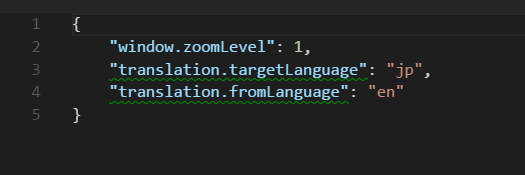
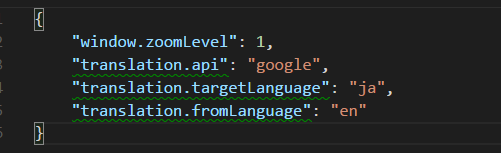
update to 0.0.5

diff --git a/out/src/extension.js b/out/src/extension.js
@@ -4,20 +4,42 @@ Object.defineProperty(exports, "__esModule", { value: true });
 // Import the module and reference it with the alias vscode in your code below
 const vscode_1 = require("vscode");
 const WebRequest = require("web-request");
-// import { DOMParser } from 'xmldom';
 // this method is called when your extension is activated
 // your extension is activated the very first time the command is executed
-let _flag = false;
-let _rs = '';
-// var parser = new DOMParser();
+let _flag = false, _rs = '', google2baidu = {
+    en: 'en',
+    th: 'th',
+    ru: 'ru',
+    pt: 'pt',
+    el: 'el',
+    nl: 'nl',
+    pl: 'pl',
+    bg: 'bul',
+    et: 'est',
+    da: 'dan',
+    fi: 'fin',
+    cs: 'cs',
+    ro: 'rom',
+    sl: 'slo',
+    sv: 'swe',
+    hu: 'hu',
+    de: 'de',
+    it: 'it',
+    zh: 'zh',
+    'zh-CN': 'zh',
+    'zh-TW': 'cht',
+    'zh-HK': 'yue',
+    ja: 'jp',
+    ko: 'kor',
+    es: 'spa',
+    fr: 'fra',
+    ar: 'ara'
+};
 function activate(context) {
     // Use the console to output diagnostic information (console.log) and errors (console.error)
     // This line of code will only be executed once when your extension is activated
-    let translate = new Translate();
-    context.subscriptions.push(translate);
-    var disposable = vscode_1.commands.registerCommand('extension.translateon', () => {
-        // The code you place here will be executed every time your command is executed
-        // Display a message box to the user
+    context.subscriptions.push(new Translate());
+    context.subscriptions.push(vscode_1.commands.registerCommand('extension.translateon', () => {
         if (!_flag) {
             vscode_1.window.showInformationMessage('Translate on!');
             _flag = true;
@@ -26,14 +48,12 @@ function activate(context) {
             vscode_1.window.showInformationMessage('Translate off!');
             _flag = false;
         }
-    });
-    context.subscriptions.push(disposable);
+    }));
     context.subscriptions.push(vscode_1.commands.registerCommand('extension.translateReplace', () => {
         if (!_flag) {
             return;
         }
-        var editor = vscode_1.window.activeTextEditor;
-        var selection = editor.selection;
+        var editor = vscode_1.window.activeTextEditor, selection = editor.selection;
         editor.edit(edit => edit.replace(selection, _rs));
     }));
 }
@@ -54,36 +74,36 @@ class Translate {
         this._statusBarItem.show();
     }
     updateTranslate() {
-        let cfg = vscode_1.workspace.getConfiguration();
-        var _proxy = String(cfg.get("http.proxy"));
-        var _api = String(cfg.get("translation.api"));
-        var _targetLanguage = String(cfg.get("translation.targetLanguage"));
-        var _fromLanguage = String(cfg.get("translation.fromLanguage"));
+        var cfg = vscode_1.workspace.getConfiguration(), _proxy = String(cfg.get("http.proxy")), _api = String(cfg.get("translation.api")), _targetLanguage = String(cfg.get("translation.targetLanguage")), _fromLanguage = String(cfg.get("translation.fromLanguage"));
         let editor = vscode_1.window.activeTextEditor;
         if (!_flag || !editor) {
             this._statusBarItem.hide();
             return;
         }
-        let doc = editor.document;
-        let str = doc.getText(editor.selection);
-        this.dotranslate(encodeURIComponent(str), _proxy, _api, _targetLanguage, _fromLanguage);
+        let doc = editor.document, str = doc.getText(editor.selection);
+        setTimeout(() => {
+            this.dotranslate(encodeURIComponent(str), _proxy, _api, _targetLanguage, _fromLanguage);
+        }, 1000);
     }
     dotranslate(str, _proxy, _api, _targetLanguage, _fromLanguage) {
         var statusBarItem = this._statusBarItem;
         if (str.trim() == '')
             return;
-        var translateStr = this.baiduTranslate(str, _targetLanguage, _fromLanguage);
+        var translateStr = _api == 'baidu' ? this.baiduTranslate(str, google2baidu[_targetLanguage], google2baidu[_fromLanguage]) : this.googleTranslate(str, _targetLanguage, _fromLanguage);
         WebRequest.get(translateStr, { "proxy": _proxy }).then(function (TResult) {
-            var rs = '';
-            // if (_api == 'baidu') {
-            var res = JSON.parse(TResult.content.toString());
-            if (res.error)
-                return;
-            rs = res.trans_result.data[0].dst;
-            // } else {
-            //     var domStr = TResult.content.toString()
-            //          ,dom = parser.parseFromString(domStr.substring(domStr.indexOf('<body dir'),domStr.lastIndexOf('</body>')+7));
-            // }
+            var rs = '', res = JSON.parse(TResult.content.toString());
+            if (_api == 'baidu') {
+                if (res.error)
+                    return;
+                rs = res.trans_result.data[0].dst;
+            }
+            else {
+                var result = [];
+                res.sentences.forEach(function (v) {
+                    result.push(v.trans);
+                });
+                rs = result.join(',');
+            }
             statusBarItem.text = _rs = rs;
             statusBarItem.show();
         });
@@ -92,7 +112,7 @@ class Translate {
         return 'http://fanyi.baidu.com/v2transapi?query=' + str + (_fromLanguage ? '&from=' + _fromLanguage : '') + (_targetLanguage ? '&to=' + _targetLanguage : '');
     }
     googleTranslate(str, _targetLanguage, _fromLanguage) {
-        return 'https://translate.google.cn/#' + (_fromLanguage ? _fromLanguage : 'auto') + '/' + (_targetLanguage ? _targetLanguage : 'zh-CN') + '/' + str;
+        return 'https://translate.google.cn/translate_a/single?client=gtx&sl=' + (_fromLanguage || 'auto') + '&tl=' + (_targetLanguage || 'auto') + '&hl=zh-CN&dt=t&dt=bd&ie=UTF-8&oe=UTF-8&dj=1&source=icon&q=' + str;
     }
     dispose() {
         this._statusBarItem.dispose();

diff --git a/src/extension.ts b/src/extension.ts
@@ -3,24 +3,47 @@
 // Import the module and reference it with the alias vscode in your code below
 import { window, workspace, commands, Disposable, ExtensionContext, StatusBarAlignment, StatusBarItem, TextDocument } from 'vscode';
 import * as WebRequest from 'web-request';
-// import { DOMParser } from 'xmldom';
 // this method is called when your extension is activated
 // your extension is activated the very first time the command is executed
-let _flag = false;
-let _rs = '';
-// var parser = new DOMParser();
+let _flag = false
+    , _rs = ''
+    , google2baidu = {
+        en: 'en',
+        th: 'th',
+        ru: 'ru',
+        pt: 'pt',
+        el: 'el',
+        nl: 'nl',
+        pl: 'pl',
+        bg: 'bul',
+        et: 'est',
+        da: 'dan',
+        fi: 'fin',
+        cs: 'cs',
+        ro: 'rom',
+        sl: 'slo',
+        sv: 'swe',
+        hu: 'hu',
+        de: 'de',
+        it: 'it',
+        zh: 'zh',
+        'zh-CN': 'zh',
+        'zh-TW': 'cht',
+        'zh-HK': 'yue',
+        ja: 'jp',
+        ko: 'kor',
+        es: 'spa',
+        fr: 'fra',
+        ar: 'ara'
+    };
 
 
 export function activate(context: ExtensionContext) {
 
     // Use the console to output diagnostic information (console.log) and errors (console.error)
     // This line of code will only be executed once when your extension is activated
-    let translate = new Translate();
-    context.subscriptions.push(translate);
-    var disposable = commands.registerCommand('extension.translateon', () => {
-        // The code you place here will be executed every time your command is executed
-
-        // Display a message box to the user
+    context.subscriptions.push(new Translate());
+    context.subscriptions.push(commands.registerCommand('extension.translateon', () => {
         if (!_flag) {
             window.showInformationMessage('Translate on!');
             _flag = true;
@@ -28,14 +51,13 @@ export function activate(context: ExtensionContext) {
             window.showInformationMessage('Translate off!');
             _flag = false;
         }
-    });
-    context.subscriptions.push(disposable);
+    }));
     context.subscriptions.push(commands.registerCommand('extension.translateReplace', () => {
         if (!_flag) {
             return;
         }
-        var editor = window.activeTextEditor;
-        var selection = editor.selection;
+        var editor = window.activeTextEditor
+            , selection = editor.selection;
         editor.edit(edit =>
             edit.replace(selection, _rs)
         );
@@ -61,37 +83,43 @@ class Translate {
         this._statusBarItem.show();
     }
     public updateTranslate() {
-        let cfg = workspace.getConfiguration();
-        var _proxy = String(cfg.get("http.proxy"));
-        var _api = String(cfg.get("translation.api"));
-        var _targetLanguage = String(cfg.get("translation.targetLanguage"));
-        var _fromLanguage = String(cfg.get("translation.fromLanguage"));
+        var cfg = workspace.getConfiguration()
+            , _proxy = String(cfg.get("http.proxy"))
+            , _api = String(cfg.get("translation.api"))
+            , _targetLanguage = String(cfg.get("translation.targetLanguage"))
+            , _fromLanguage = String(cfg.get("translation.fromLanguage"));
         let editor = window.activeTextEditor;
         if (!_flag || !editor) {
             this._statusBarItem.hide();
             return;
         }
 
-        let doc = editor.document;
-        let str = doc.getText(editor.selection)
-        this.dotranslate(encodeURIComponent(str), _proxy, _api, _targetLanguage, _fromLanguage);
+        let doc = editor.document
+            , str = doc.getText(editor.selection)
+        setTimeout(() => {
+            this.dotranslate(encodeURIComponent(str), _proxy, _api, _targetLanguage, _fromLanguage);
+        }, 1000);
+
 
     }
     private dotranslate(str, _proxy, _api, _targetLanguage, _fromLanguage) {
         var statusBarItem = this._statusBarItem
         if (str.trim() == '')
             return;
-        var translateStr = this.baiduTranslate(str, _targetLanguage, _fromLanguage);
+        var translateStr = _api == 'baidu' ? this.baiduTranslate(str, google2baidu[_targetLanguage], google2baidu[_fromLanguage]) : this.googleTranslate(str, _targetLanguage, _fromLanguage);
         WebRequest.get(translateStr, { "proxy": _proxy }).then(function (TResult) {
-            var rs = '';
-            // if (_api == 'baidu') {
-                var res = JSON.parse(TResult.content.toString());
+            var rs = ''
+                , res = JSON.parse(TResult.content.toString());
+            if (_api == 'baidu') {
                 if (res.error) return;
                 rs = res.trans_result.data[0].dst;
-            // } else {
-            //     var domStr = TResult.content.toString()
-            //          ,dom = parser.parseFromString(domStr.substring(domStr.indexOf('<body dir'),domStr.lastIndexOf('</body>')+7));
-            // }
+            } else {
+                var result = []
+                res.sentences.forEach(function (v) {
+                    result.push(v.trans)
+                })
+                rs = result.join(',');
+            }
             statusBarItem.text = _rs = rs;
             statusBarItem.show();
         });
@@ -101,9 +129,8 @@ class Translate {
 
     }
     private googleTranslate(str, _targetLanguage, _fromLanguage) {
-        return 'https://translate.google.cn/#' + (_fromLanguage ? _fromLanguage : 'auto') + '/' + (_targetLanguage ? _targetLanguage : 'zh-CN') + '/' + str;
+        return 'https://translate.google.cn/translate_a/single?client=gtx&sl=' + (_fromLanguage || 'auto') + '&tl=' + (_targetLanguage || 'auto') + '&hl=zh-CN&dt=t&dt=bd&ie=UTF-8&oe=UTF-8&dj=1&source=icon&q=' + str;
     }
-
 
     dispose() {
         this._statusBarItem.dispose();

diff --git a/README.md b/README.md
@@ -17,6 +17,8 @@ press CTRL + t to turn off the function. <br />
 
 <br />
 and you can set the user-settings to change from language and target language. 
+<br />
+and as for translation.api only google&baidu provided (default is baidu)
 ![](https://raw.githubusercontent.com/jianzhichun/vscode-translate/master/img/config.png)
 <br />
 
@@ -24,9 +26,9 @@ and you can set the user-settings to change from language and target language.
 
 ![](https://raw.githubusercontent.com/jianzhichun/vscode-translate/master/img/replace_show.gif)
 
-## Language List
+## Language List (use google)
 
-You can see [http://api.fanyi.baidu.com/api/trans/product/apidoc#languageList](http://api.fanyi.baidu.com/api/trans/product/apidoc#languageList)
+You can see [https://cloud.google.com/translate/docs/languages](https://cloud.google.com/translate/docs/languages)
 
 ## Contribution.
 
@@ -45,3 +47,6 @@ You can see [http://api.fanyi.baidu.com/api/trans/product/apidoc#languageList](h
     update to 0.0.4
     add others translation support
     add replace support
+### 2017/3/4
+    update to 0.0.5
+    add google translation optional
